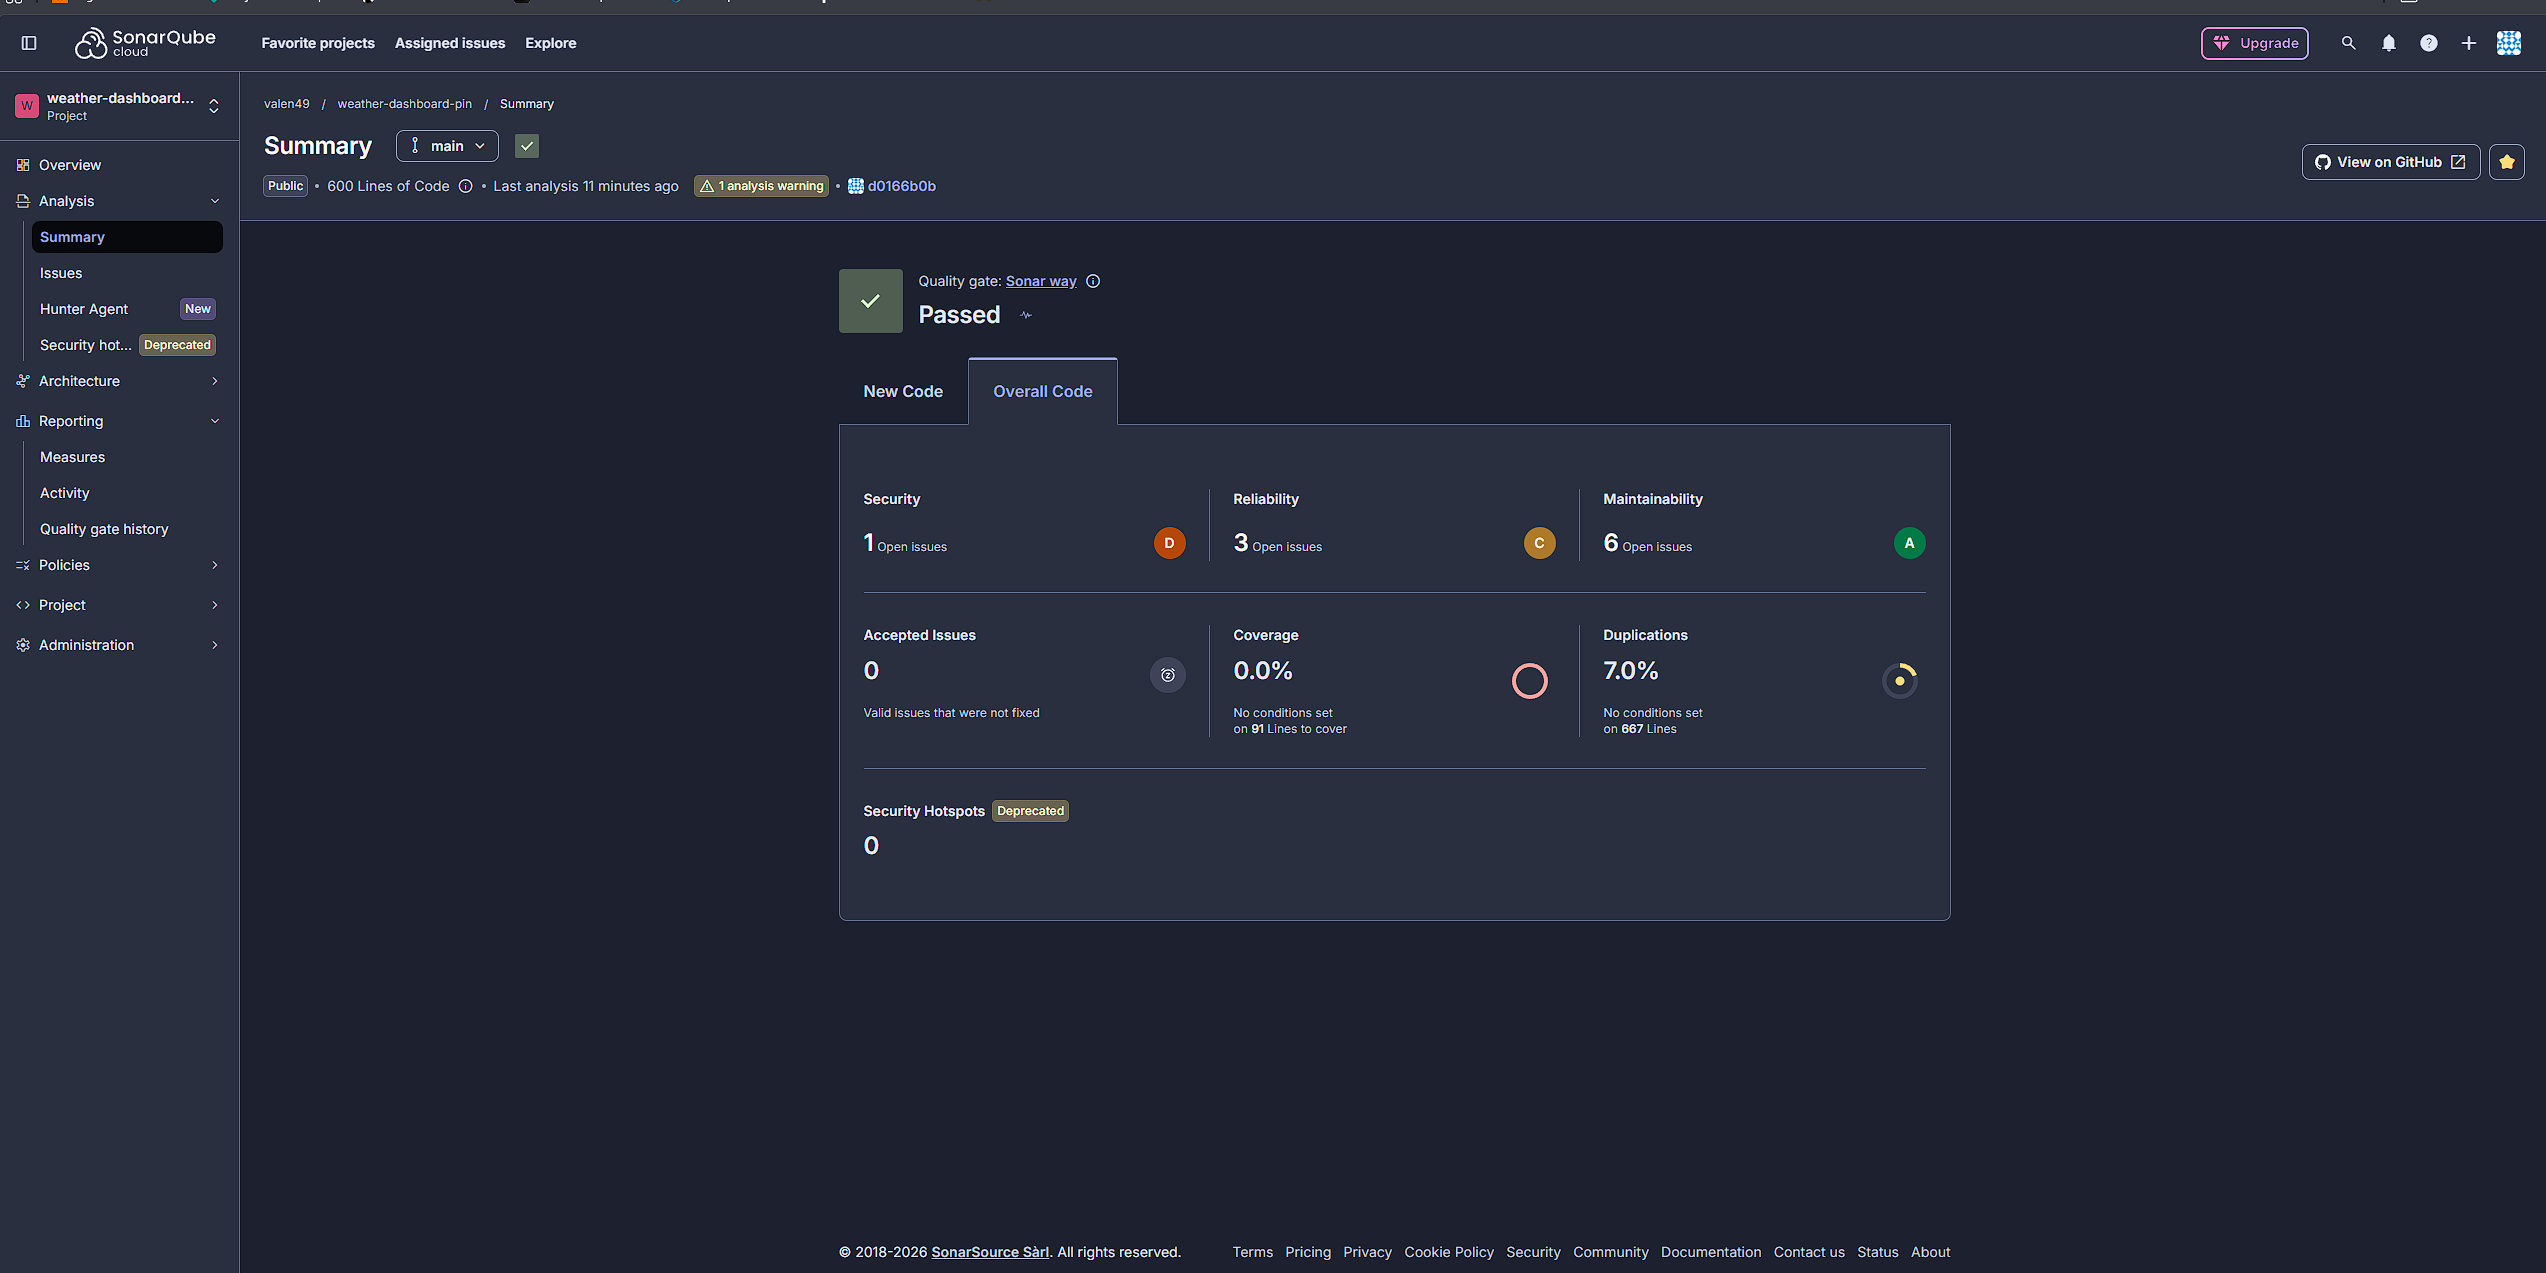
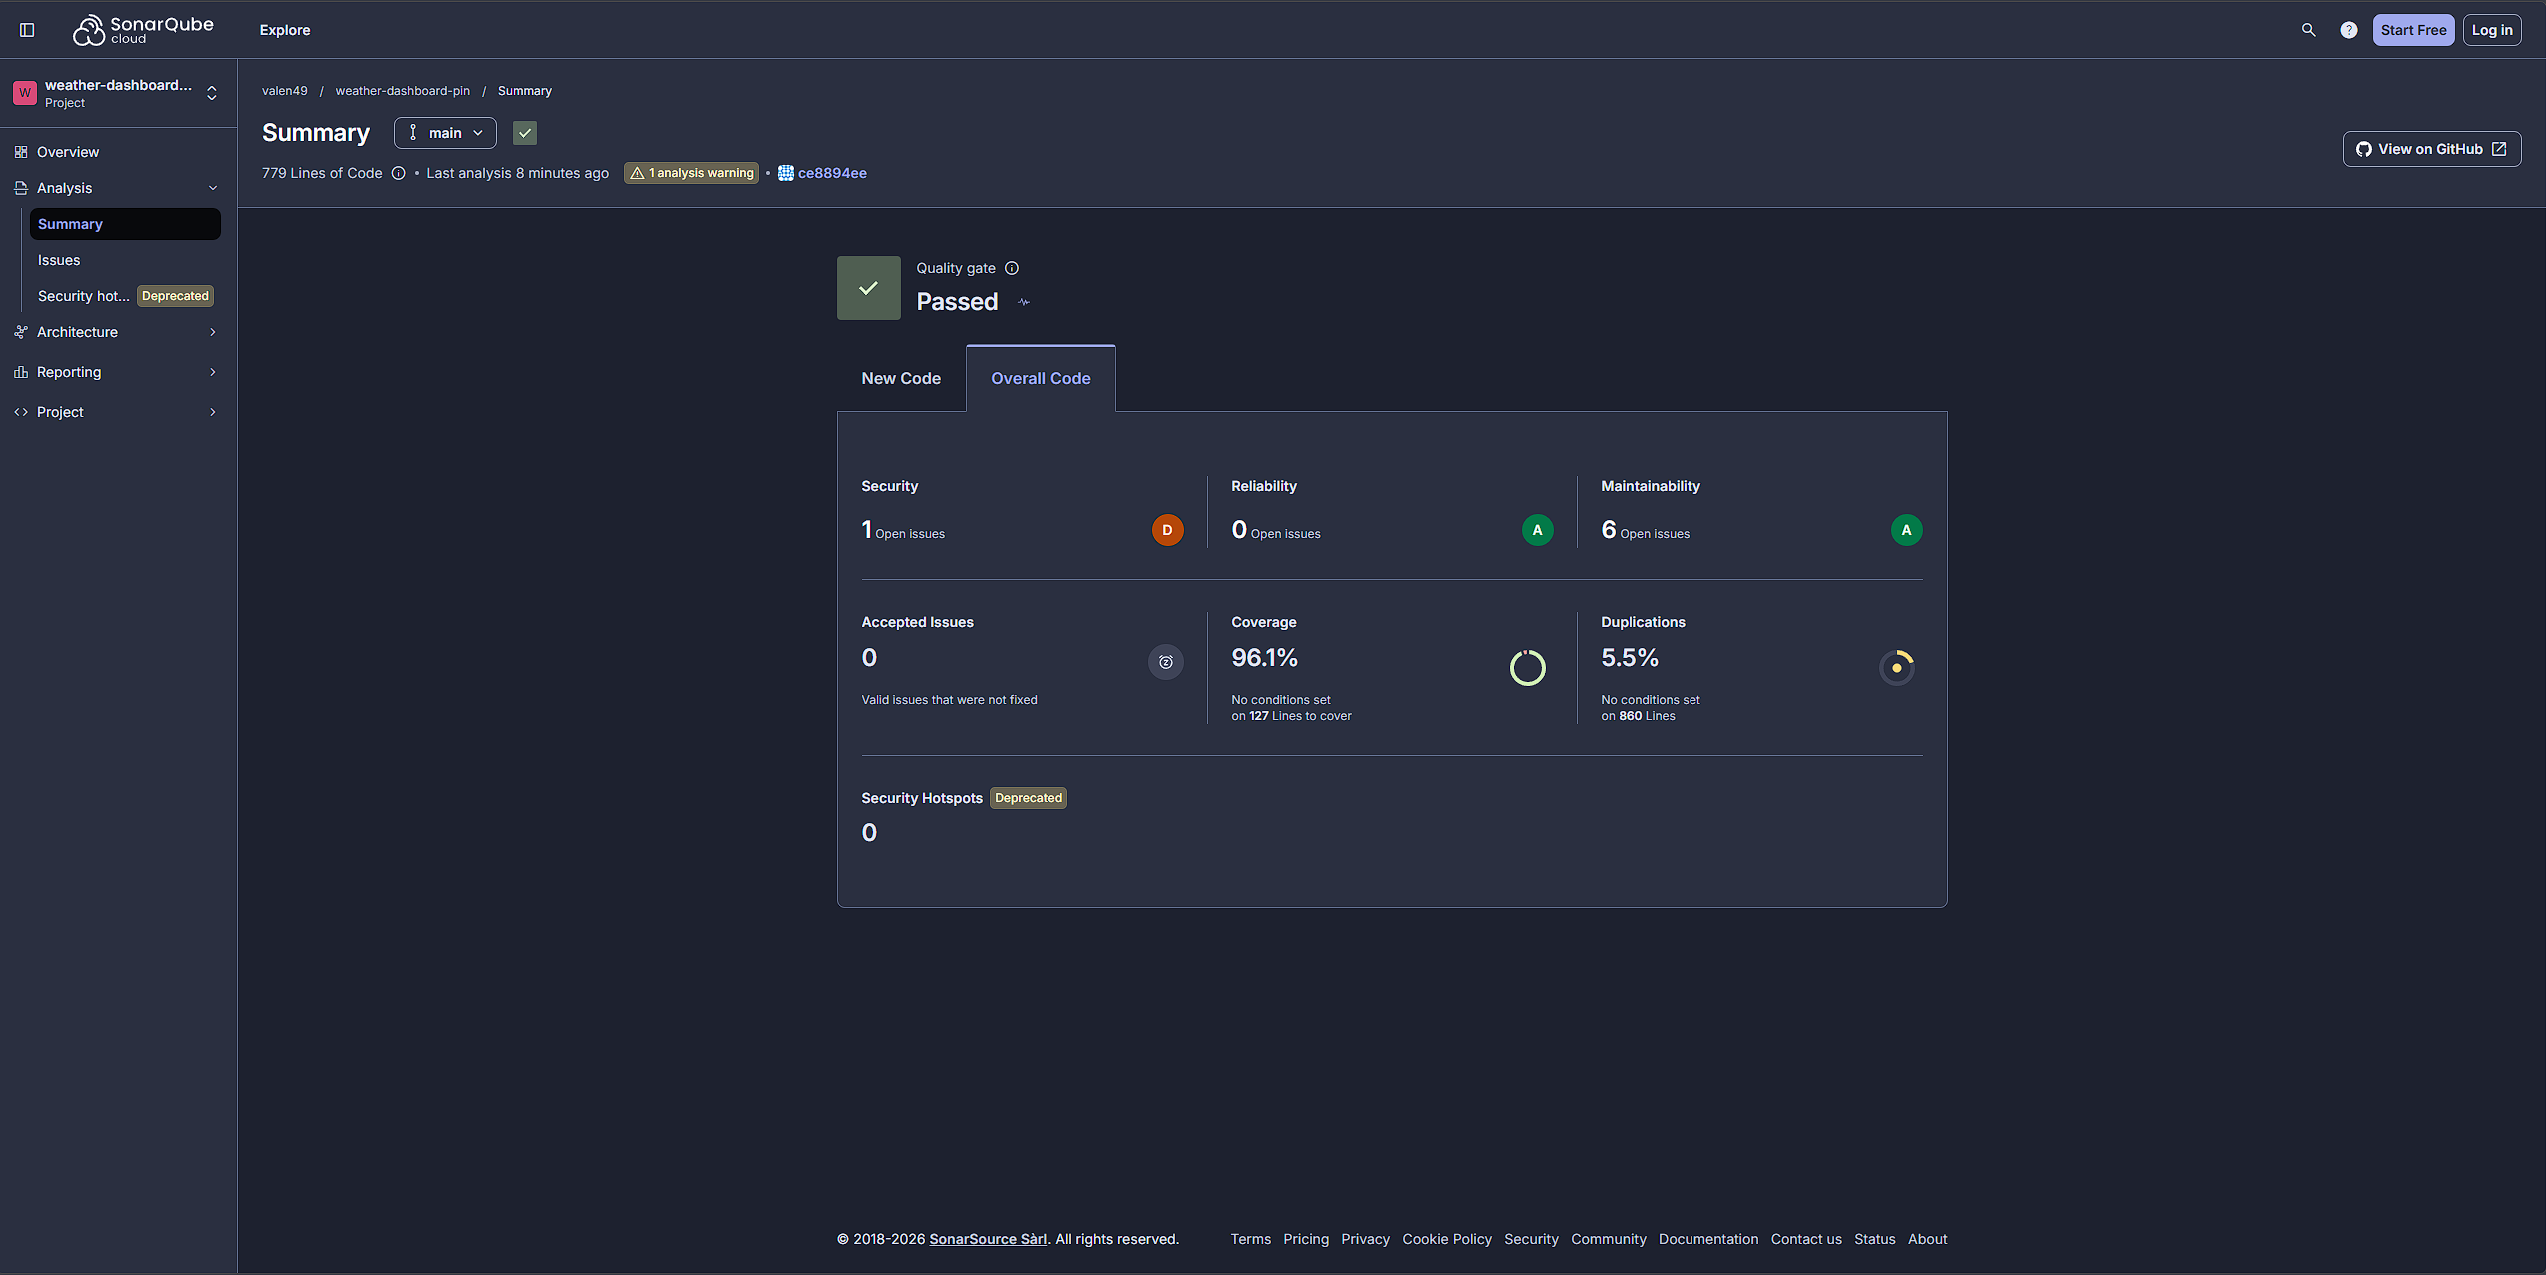
docs: actualizar capturas del README y aclarar autoría
Las capturas de docs/screenshots eran de un run viejo (Sonar con 0% de cobertura y
confiabilidad C) y contradecían las del entregable. Se reemplazan por las del run
final (commit ce8894e). También se corrige la tabla del stack, que mostraba
unit-tests y security en secuencia cuando corren en paralelo, y se aclara que es un
trabajo individual.

diff --git a/README.md b/README.md
@@ -1,7 +1,8 @@
 # 🌤 Weather Dashboard — PIN
 
 Proyecto Integrador Final (PIN) del curso **DevOps** de **mundosE** (UNC/FCEFyN) —
-**Proyecto 1: CI/CD con GitHub Actions + Terraform + Docker**.
+**Proyecto 1: CI/CD con GitHub Actions + Terraform + Docker**. Grupo 10 — trabajo individual de
+Valentín Vidal.
 
 Dashboard de clima en Flask que consume la API pública y gratuita de [Open-Meteo](https://open-meteo.com/)
 para mostrar el clima actual y el pronóstico de 7 días de cualquier ciudad del mundo. La aplicación en sí
@@ -21,7 +22,7 @@ En el camino llegué a correr un Jenkins self-hosted en una mini PC propia, desp
 Kubernetes local — una forma de practicar un pipeline completo sin depender de servicios en la nube. Esa
 etapa quedó documentada en el historial de commits del repo original.
 
-Cuando llegó el momento del PIN y tocó elegir uno de los 4 proyectos posibles, elegimos el **Proyecto 1**
+Cuando llegó el momento del PIN y tocó elegir uno de los 4 proyectos posibles, elegí el **Proyecto 1**
 (GitHub Actions + Terraform + Docker, con despliegue en AWS). Le había agarrado cariño al
 `weather-dashboard` original —no quería tocarlo ni perder ese historial—, así que en vez de modificarlo
 in situ, lo **cloné completo** (con todos los commits) a este repo, `weather-dashboard-pin`, y acá es
@@ -84,7 +85,7 @@ Proyecto 1. El original sigue intacto como estaba.
 
 | Categoría | Herramienta | Uso |
 |---|---|---|
-| **CI/CD** | GitHub Actions | `unit-tests` → `security` → `e2e-tests` → `build-and-deploy` |
+| **CI/CD** | GitHub Actions | `unit-tests` y `security` en paralelo → `e2e-tests` → `build-and-deploy` |
 | **IaC** | Terraform | EC2 + Security Group en AWS, backend remoto en S3 + DynamoDB |
 | **Contenedores** | Docker | Imagen de la app, publicada en GHCR |
 | **Seguridad** | Snyk + SonarQube Cloud | Vulnerabilidades de dependencias + análisis estático de código |
